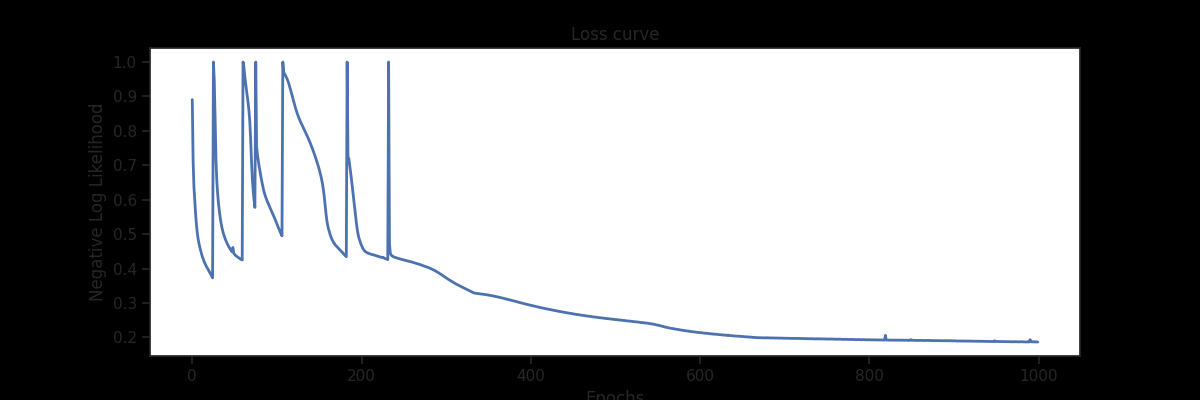
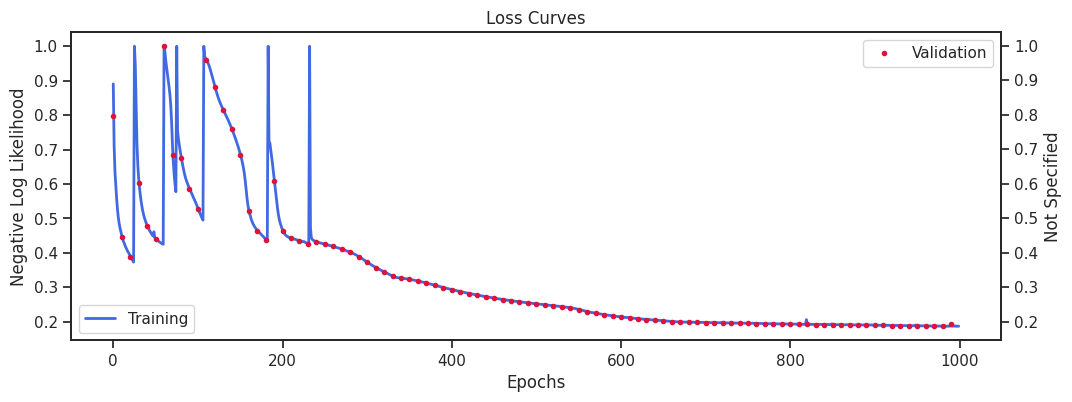
Polished image visualisations

diff --git a/piedpiper/visualtester.py b/piedpiper/visualtester.py
@@ -10,19 +10,39 @@ class VisualTester:
         if isinstance(losses, list):
             losses = jnp.stack(losses)
 
-        ## Plot the loss curve
         fig, ax = plt.subplots(1, 1, figsize=(12, 4))
         if ylim is not None:
-            ax.plot(np.clip(losses, None, ylim))
+            losses = np.clip(losses, None, ylim)
+
+        ax.plot(losses, label="Training", color="royalblue")
         ax.set_xlabel("Epochs")
         ax.set_ylabel("Negative Log Likelihood")
         if log_scale:
             ax.set_yscale("log")
-        ax.set_title("Loss curve")
+        ax.legend(loc="lower left")
 
-        fig.savefig(save_path+"loss_curve.png")
+        ## Make a twin axis for validation losses
+        val_losses = self.trainer.val_losses
+        print(val_losses)
+        if len(val_losses) > 0:
+            ax2 = ax.twinx()
 
-    def visualize_video_frames(self, video, resolution, title=None):
+            len_train = len(losses)
+            len_val = len(val_losses)
+            val_points = np.linspace(0, len_train, len_val, endpoint=False).astype(int)
+
+            ax2.plot(val_points, val_losses, ".", color="crimson", label="Validation")
+            y_label = self.trainer.val_criterion if self.trainer.val_criterion is not None else "Not Specified"
+            ax2.set_ylabel(y_label)
+            if log_scale:
+                ax2.set_yscale("log")
+            ax2.legend(loc="upper right")
+
+        ax.set_title("Loss Curves")
+
+        fig.savefig(save_path, bbox_inches='tight')
+
+    def visualize_video_frames(self, video, resolution, title=None, save_path=None):
         nb_frames = video.shape[0]
         fig, axs = plt.subplots(1, nb_frames, figsize=(2*nb_frames, 2))
         for i in range(nb_frames):
@@ -39,6 +59,9 @@ class VisualTester:
         if title is not None:
             fig.suptitle(title, y=1.05)
         plt.show()
+
+        if save_path is not None:
+            fig.savefig(save_path, bbox_inches='tight')
 
     def visualize_images(self, dataloader, plot_ids=None, nb_envs=None, key=None, save_path=None, interp_method="linear"):
 
@@ -75,27 +98,27 @@ class VisualTester:
             img_true = make_image(Xt[e_], Yt[e_], img_size=img_shape)
             ax1.imshow(img_true)
             if e==0:
-                ax1.set_title(f"Target", fontsize=18)
+                ax1.set_title(f"Target", fontsize=22)
 
             img_fw = make_image(Xc[e_], Yc[e_], img_size=img_shape)
             ax2.imshow(img_fw)
             if e==0:
-                ax2.set_title(f"Context Set", fontsize=18)
+                ax2.set_title(f"Context Set", fontsize=22)
 
             img_pred = mus[e_]
             ax3.imshow(img_pred)
             if e==0:
-                ax3.set_title(f"Prediction", fontsize=18)
+                ax3.set_title(f"Prediction", fontsize=22)
 
             img_std = sigmas[e_]
             ax4.imshow(img_std)
             if e==0:
-                ax4.set_title(f"Uncertainty", fontsize=18)
+                ax4.set_title(f"Uncertainty", fontsize=22)
 
             interpolation = interpolate_2D_image(np.asarray(Xc[e_]), np.asarray(Yc[e_]), img_shape, method=interp_method)
             ax5.imshow(interpolation)
             if e==0:
-                ax5.set_title(f"{interp_method} Int.", fontsize=18)
+                ax5.set_title(f"{interp_method.capitalize()} Int.", fontsize=22)
 
             ax5.set_xticks([])
             ax5.set_yticks([])
@@ -109,4 +132,4 @@ class VisualTester:
             ax4.set_yticks([])
 
         if save_path is not None:
-            fig.savefig(save_path)
+            fig.savefig(save_path, bbox_inches='tight')

diff --git a/piedpiper/trainer.py b/piedpiper/trainer.py
@@ -25,6 +25,8 @@ class Trainer:
 
         self.train_losses = []
         self.val_losses = []
+
+        self.val_criterion = None
  
     def save_trainer(self, path, ignore_losses=False):
         assert path[-1] == "/", "ERROR: The path must end with /"
@@ -49,17 +51,20 @@ class Trainer:
             histories = np.load(path+"checkpoints/train_histories.npz")
         else:
             print("WARNING: No training history found at all. Using tens.")
-            histories = {'train_losses': jnp.inf*np.ones((1,))}
-        self.train_losses = histories['train_losses']
+            histories = {'train_losses': jnp.inf*np.ones((1,)), 'val_losses': jnp.inf*np.ones((1,))}
 
-        if os.path.exists(path+"val_losses.npy"):
-            self.val_losses = [np.load(path+"val_losses.npy")]
-        elif os.path.exists(path+"checkpoints/val_losses.npy"):
-            print("WARNING: No validation history found in the provided path. Using checkpointed ones.")
-            self.val_losses = [np.load(path+"checkpoints/val_losses.npy")]
+        self.train_losses = histories['train_losses']
+        if 'val_losses' in histories:
+            self.val_losses = histories['val_losses']
         else:
-            print("WARNING: No validation history found at all. Using ten.")
-            self.val_losses = []
+            if os.path.exists(path+"val_losses.npy"):
+                self.val_losses = [np.load(path+"val_losses.npy")]
+            elif os.path.exists(path+"checkpoints/val_losses.npy"):
+                print("WARNING: No validation history found in the provided path. Using checkpointed ones.")
+                self.val_losses = [np.load(path+"checkpoints/val_losses.npy")]
+            else:
+                print("WARNING: No validation history found at all. Using ten.")
+                self.val_losses = []
 
         if os.path.exists(path+"opt_state.pkl"):
             self.opt_state = pickle.load(open(path+"opt_state.pkl", "rb"))
@@ -84,6 +89,8 @@ class Trainer:
         opt_state = self.opt_state
         model = self.learner.model
         loss_fn = self.learner.loss_fn
+
+        self.val_criterion = val_criterion
 
         if save_checkpoints:
             os.makedirs(save_path+"checkpoints", exist_ok=True)

diff --git a/examples/celeba/runs/241101-013653-6Hours/main_img.py b/examples/celeba/runs/241101-013653-6Hours/main_img.py
@@ -232,15 +232,15 @@ else:
 # print("Training losses:", jnp.stack(trainer.train_losses))
 
 visualtester = VisualTester(trainer)
-visualtester.visualize_losses(run_folder, log_scale=False, ylim=1)
+visualtester.visualize_losses(run_folder+"loss_curve.png", log_scale=False, ylim=1)
 
 test_dataset = ImageDataset(data_folder, 
-                            data_split="test",
+                            data_split="val",
                             num_shots=k_shots, 
                             order_pixels=False, 
                             resolution=resolution,
                             max_envs=envs_batch_size*1,
-                            seed=time.time_ns()%(2**32)
+                            seed=None,
                             )
 test_dataloader = NumpyLoader(test_dataset, 
                               batch_size=envs_batch_size, 
@@ -248,7 +248,7 @@ test_dataloader = NumpyLoader(test_dataset,
                               num_workers=num_workers,
                               drop_last=False)
 
-visualtester.visualize_images(test_dataloader, nb_envs=8, key=None, save_path=run_folder, interp_method="linear")
+visualtester.visualize_images(test_dataloader, nb_envs=None, key=None, save_path=run_folder+"predictions_val.png", interp_method="linear", plot_ids=range(8))
 
 
 #%%

diff --git a/examples/celeba/main_img.py b/examples/celeba/main_img.py
@@ -220,7 +220,7 @@ if meta_train:
                         save_checkpoints=True,
                         save_path=run_folder,
                         val_dataloader=train_dataloader,
-                        val_criterion="NLL",
+                        val_criterion="MSE",
                         validate_every=validate_every,
                         )
 else:
@@ -232,8 +232,9 @@ else:
 # print("Training losses:", jnp.stack(trainer.train_losses))
 
 visualtester = VisualTester(trainer)
-visualtester.visualize_losses(run_folder, log_scale=False, ylim=1)
+visualtester.visualize_losses(run_folder+"loss_curve.png", log_scale=False, ylim=1)
 
+#%%
 test_dataset = ImageDataset(data_folder, 
                             data_split="test",
                             num_shots=k_shots, 
@@ -248,7 +249,7 @@ test_dataloader = NumpyLoader(test_dataset,
                               num_workers=num_workers,
                               drop_last=False)
 
-visualtester.visualize_images(test_dataloader, nb_envs=None, key=None, save_path=run_folder+"predictions_val.png", interp_method="linear", plot_ids=range(8))
+visualtester.visualize_images(test_dataloader, nb_envs=None, key=None, save_path=run_folder+"predictions_test.png", interp_method="linear", plot_ids=range(8))
 
 
 #%%

diff --git a/piedpiper/_config.py b/piedpiper/_config.py
@@ -10,11 +10,13 @@ import numpy as np
 np.set_printoptions(suppress=True)
 
 ## Plotting configs
+import matplotlib as mpl
 import matplotlib.pyplot as plt
 import seaborn as sns
 sns.set_theme(context='notebook', style='ticks',
         font='sans-serif', font_scale=1, color_codes=True, rc={"lines.linewidth": 2})
 # plt.style.use("dark_background")
+mpl.rcParams['savefig.facecolor'] = 'w'
 
 ## Set the following parameters for scientfic plots
 # sns.set_theme(context='talk', style='ticks',
